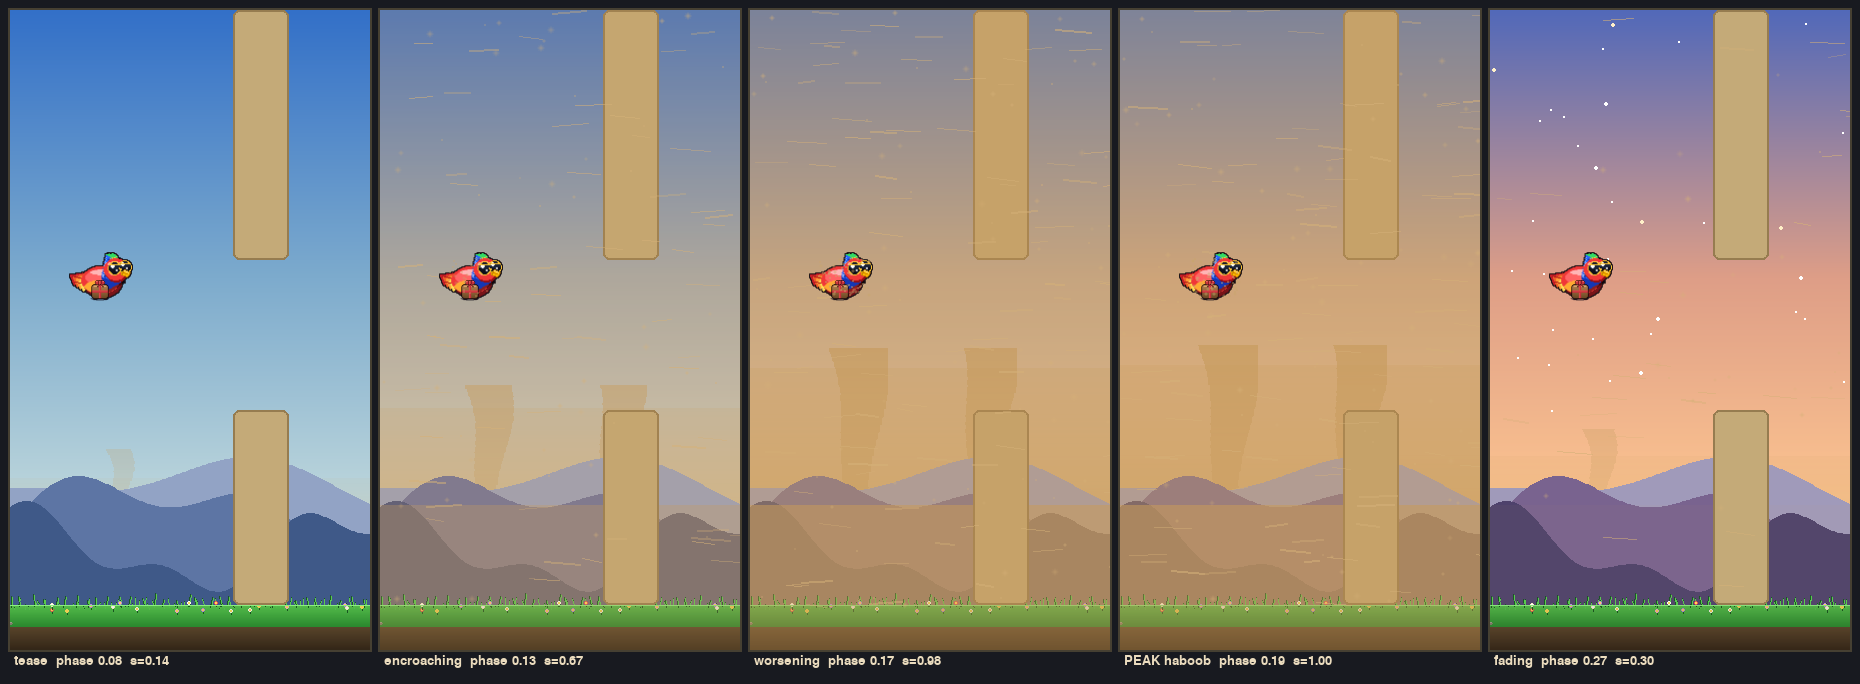
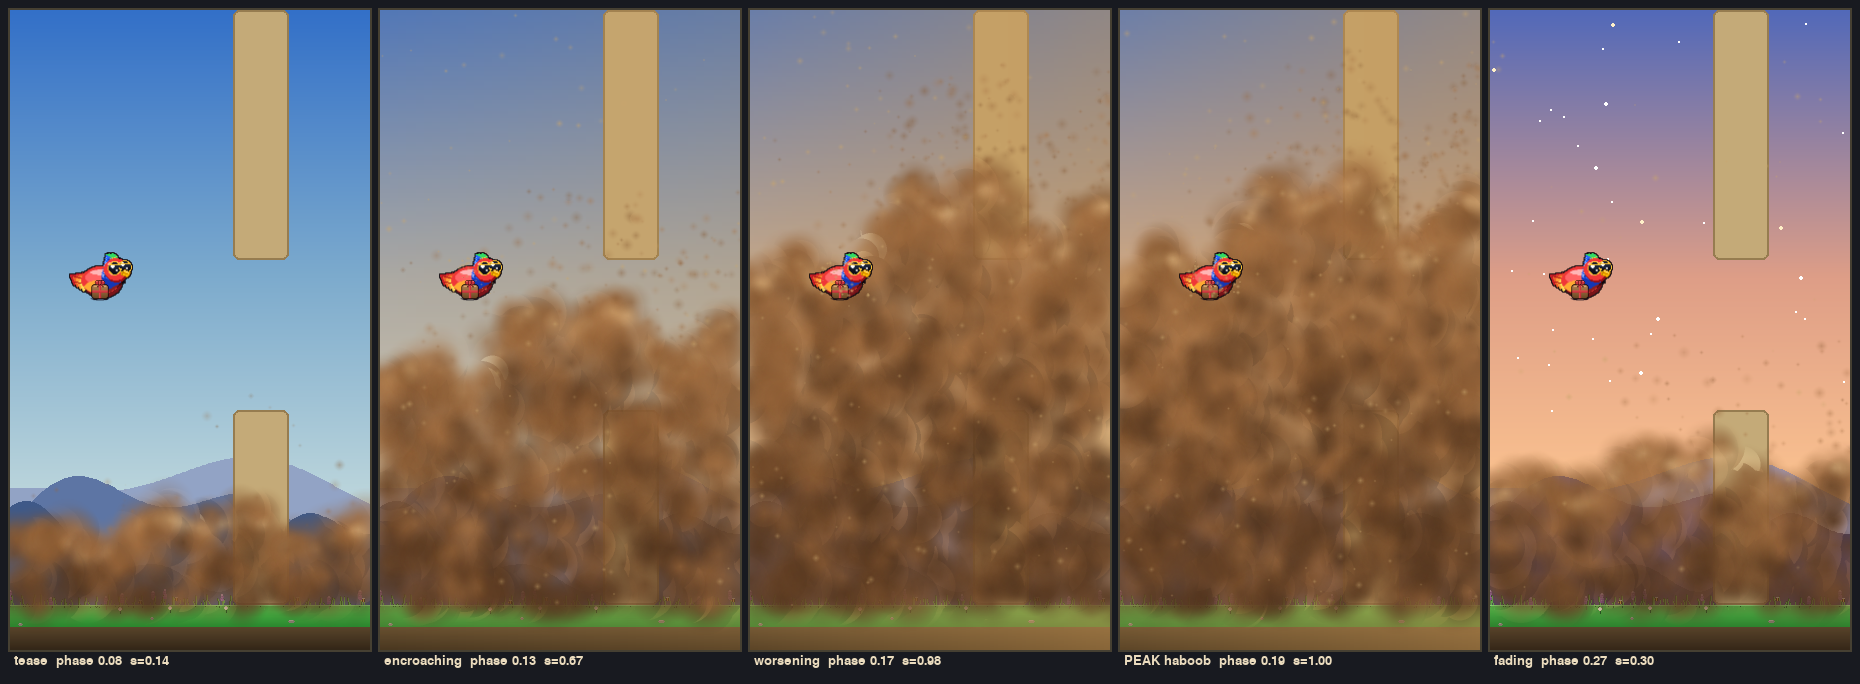
design: sandstorm mockup rebuilt to haboob quality
The first mockup looked crude (flat aliased gradient bands +
draw.line streaks). Rebuilt to REUSE the original haboob's
high-quality rendering from render_wind_themes: warm orange haze
cast + a dust WALL of smooth 2x-supersampled soft-disc puffs
(value-contrast body/deep/sunlit-rim + lofted grit), scaled by
intensity across the stages — distant low band on the horizon at
the tease growing to a tall looming wall at the peak. Dust-devils,
sand motes, and the bird sand coat all now use the same smooth
soft-disc + supersample path. Sample pillar pair kept to judge the
visibility veil. Still tooling-only. Tests: 22/22.

diff --git a/tools/render_sandstorm.py b/tools/render_sandstorm.py
@@ -1,9 +1,10 @@
-"""SANDSTORM stage mockup (design tuning, tooling-only — not wired
-into the game yet). Renders the event's key stages along its
-timeline so we can judge the look: a daytime haboob with a long
-tease (horizon dust WALL + DUST-DEVILS behind the mountains), an
-ochre VISIBILITY veil over the course (pipes shown, Pip stays
-crisp), mountains buried, and the bird coated in spread sand.
+"""SANDSTORM stage mockup (design tuning, tooling-only). REBUILT to
+reuse the high-quality haboob rendering from render_wind_themes
+(warm haze cast + a dust WALL of smooth supersampled soft-disc
+puffs with value contrast + a sunlit rim), scaled by intensity to
+show the stages: distant horizon storm (tease) -> encroaching ->
+peak haboob -> fade. Plus dust-devils, a sample pillar pair (to
+judge the visibility veil), and the bird's spread sand coat.
 
 Output: docs/screenshots/wind_themes/sandstorm/stages_sheet.png
 
@@ -21,9 +22,11 @@ os.environ.setdefault("SDL_AUDIODRIVER", "dummy")
 import pygame
 
 from game.config import W, H, GROUND_Y, BIRD_X
-from game.entities import Bird, _snow_disc           # reuse soft disc
+from game.entities import Bird
 from game import biome as _biome
 from game.draw import get_sky_surface_biome, draw_mountains, draw_ground
+# Reuse the haboob's smooth supersample helpers
+from tools.render_wind_themes import soft_disc, new_ss, blit_ss, SS
 
 pygame.init()
 pygame.display.set_mode((W, H))
@@ -32,12 +35,12 @@ OUT_DIR = os.path.join(os.path.dirname(os.path.dirname(__file__)),
                        "docs", "screenshots", "wind_themes", "sandstorm")
 os.makedirs(OUT_DIR, exist_ok=True)
 
-# Ochre/sepia sand palette
-WALL = (196, 156, 96)
-VEIL = (200, 150, 84)
-MOTE = (212, 176, 120)
+# Haboob palette (same families as theme_haboob)
+HI   = ((250, 210, 150), (255, 225, 170))          # sunlit rim
+BODY = ((150, 100, 58), (130, 86, 48), (168, 116, 70))
+DEEP = ((96, 62, 36), (80, 52, 30))
+HAZE = (198, 148, 82)
 SAND = (200, 165, 108)
-HORIZON = GROUND_Y - 70           # approx mountain-top line
 
 
 def _smooth(t):
@@ -57,53 +60,105 @@ def sand_intensity(phase):
     return _smooth(1.0 - (phase - 0.20) / (0.31 - 0.20))
 
 
-# ── pieces ───────────────────────────────────────────────────────────────────
+# ── pieces (smooth, supersampled) ────────────────────────────────────────────
 
-def draw_far(surf, s, rng):
-    """Horizon dust wall + dust-devils (behind the mountains).
-    Present even in the tease (low s)."""
+def dust_wall(surf, s, rng):
+    """The haboob dust wall — smooth soft-disc puffs rising from the
+    ground. Height + density scale with s: a low distant band on
+    the horizon at the tease, a tall looming wall at the peak."""
     if s <= 0.02:
         return
-    # dust wall: ochre gradient band sitting on the horizon, taller
-    # + more opaque as s grows
-    band_h = int(40 + s * 130)
-    top = HORIZON - band_h
-    wall = pygame.Surface((W, band_h), pygame.SRCALPHA)
-    for yy in range(band_h):
-        t = yy / band_h                       # 0 top -> 1 bottom
-        a = int((30 + s * 150) * (0.3 + 0.7 * t))
-        pygame.draw.line(wall, (*WALL, a), (0, yy), (W, yy))
-    surf.blit(wall, (0, top))
-    # 2 dust-devils: tapered spinning columns rising off the horizon
-    for k, dx in enumerate((0.30, 0.66)):
-        cx = W * dx
-        h = int(70 + s * 120)
-        col = pygame.Surface((60, h), pygame.SRCALPHA)
-        for yy in range(h):
-            t = yy / h
-            wob = math.sin(t * 6.0 + k) * 8 * (1 - t)   # wavy taper
-            wid = int((4 + (1 - t) * 16) * (0.5 + s))
-            a = int((40 + s * 120) * (0.4 + 0.6 * (1 - t)))
-            pygame.draw.line(col, (*WALL, a),
-                             (30 + wob - wid, yy), (30 + wob + wid, yy))
-        surf.blit(col, (int(cx - 30), HORIZON - h))
+    ss = new_ss()
+    gy0 = GROUND_Y * SS
+    top_frac = 0.95 - 0.55 * s            # 0.95 (low) -> 0.40 (tall)
+
+    def wall_top(xf):
+        base = gy0 * (top_frac - xf * 0.10 * s)         # taller right at peak
+        lump = (math.sin(xf * 9) * 0.045
+                + math.sin(xf * 23 + 1.7) * 0.028) * gy0 * (0.4 + s)
+        return base + lump
+
+    cols = int(55 + s * 55)
+    for ci in range(cols):
+        xf = ci / (cols - 1)
+        gx = xf * W * SS
+        top = wall_top(xf)
+        for _ in range(int(4 + s * 9)):
+            yy = rng.uniform(top - 8 * SS, gy0)
+            depth = (yy - top) / max(1.0, gy0 - top)
+            r = int(rng.uniform(18, 34) * SS)
+            col = rng.choice(DEEP) if rng.random() < depth * 0.85 else rng.choice(BODY)
+            ss.blit(soft_disc(r, col, rng.randint(95, 150)),
+                    (gx - r + rng.uniform(-14, 14) * SS, yy - r))
+        if rng.random() < 0.5:
+            rr = int(rng.uniform(10, 20) * SS)
+            ss.blit(soft_disc(rr, rng.choice(HI), rng.randint(60, 110)),
+                    (gx - rr, top - rr * 0.5))
+
+    # lofted grit above the wall (scales with s)
+    for _ in range(int(s * 170)):
+        xf = rng.random() ** 0.5
+        gx = xf * W * SS
+        gy = rng.uniform(wall_top(xf) - 130 * SS, wall_top(xf))
+        if gy < 0:
+            continue
+        r = rng.randint(3, 8) * SS
+        ss.blit(soft_disc(r, rng.choice(BODY), rng.randint(50, 110)),
+                (gx - r, gy - r))
+    blit_ss(surf, ss)
 
 
-def mountain_bury(surf, s):
-    """Ochre wash over the mountain band so the peaks get buried as
-    the storm advances (mid+ intensity)."""
-    if s < 0.25:
+def dust_devils(surf, s, rng):
+    """A couple of slim spinning sand columns on the horizon
+    (tease accents), built from smooth soft discs."""
+    if s <= 0.03:
         return
-    t = (s - 0.25) / 0.75
-    a = int(150 * t)
-    wash = pygame.Surface((W, GROUND_Y - (HORIZON - 30)), pygame.SRCALPHA)
-    wash.fill((*WALL, a))
-    surf.blit(wash, (0, HORIZON - 30))
+    ss = new_ss()
+    gy0 = (GROUND_Y - 18) * SS
+    for k, dx in enumerate((0.32, 0.70)):
+        cx = W * SS * dx
+        h = (90 + s * 130) * SS
+        steps = int(h / (5 * SS))
+        for i in range(steps):
+            t = i / steps                     # 0 base -> 1 top
+            wob = math.sin(t * 7.0 + k * 2.0) * 10 * SS * (1 - t)
+            r = int((3 + (1 - t) * 9) * SS * (0.6 + s * 0.6))
+            a = int((45 + s * 110) * (0.35 + 0.65 * (1 - t)))
+            col = rng.choice(BODY)
+            ss.blit(soft_disc(r, col, a),
+                    (cx + wob - r, gy0 - t * h - r))
+    blit_ss(surf, ss)
+
+
+def warm_haze(surf, s):
+    """Orange/sepia cast + the VISIBILITY veil. Gated to the
+    encroaching stage (s>0.3) so the tease keeps a clear playfield.
+    Right side heavier (leading edge)."""
+    if s < 0.30:
+        return
+    t = (s - 0.30) / 0.70
+    haze = pygame.Surface((W, H), pygame.SRCALPHA)
+    for xx in range(0, W, 2):
+        fx = xx / W
+        a = int(t * (70 + fx * 80))           # up to ~150 right edge at peak
+        pygame.draw.rect(haze, (*HAZE, a), (xx, 0, 2, H))
+    surf.blit(haze, (0, 0))
+
+
+def sand_particles(surf, s, rng):
+    """Foreground drifting sand motes (smooth)."""
+    if s < 0.22:
+        return
+    ss = new_ss()
+    for _ in range(int(s * 120)):
+        x = rng.uniform(0, W) * SS
+        y = rng.uniform(0, GROUND_Y) * SS
+        r = rng.randint(2, 5) * SS
+        ss.blit(soft_disc(r, SAND, rng.randint(70, 150)), (x - r, y - r))
+    blit_ss(surf, ss)
 
 
 def draw_pillars(surf):
-    """A representative sandstone pillar pair (the 'course'), so the
-    veil's effect on visibility is judgeable."""
     col = (196, 170, 120)
     edge = (150, 124, 80)
     gap_y, gap_h, pw, px = 250, 150, 56, int(W * 0.62)
@@ -113,59 +168,21 @@ def draw_pillars(surf):
         pygame.draw.rect(surf, edge, rect, width=2, border_radius=6)
 
 
-def playfield_veil(surf, s):
-    """Full-screen ochre VISIBILITY veil — the gameplay effect.
-    Capped so the course stays discernible (fair)."""
-    if s < 0.30:
-        return
-    t = (s - 0.30) / 0.70
-    a = int(105 * t)                          # fair cap ~105 at peak
-    veil = pygame.Surface((W, H), pygame.SRCALPHA)
-    veil.fill((*VEIL, a))
-    surf.blit(veil, (0, 0))
-
-
-def draw_particles(surf, s, rng):
-    """Foreground driven sand: fast streaks + drifting motes."""
-    if s < 0.20:
-        return
-    layer = pygame.Surface((W, H), pygame.SRCALPHA)
-    n_streak = int(s * 90)
-    for _ in range(n_streak):
-        x = rng.uniform(0, W)
-        y = rng.uniform(0, GROUND_Y)
-        ln = rng.uniform(14, 40)
-        a = rng.randint(70, 150)
-        pygame.draw.line(layer, (*MOTE, a), (x, y), (x + ln, y + rng.uniform(-3, 4)),
-                         rng.choice((1, 1, 2)))
-    surf.blit(layer, (0, 0))
-    n_mote = int(s * 70)
-    for _ in range(n_mote):
-        x = rng.uniform(0, W)
-        y = rng.uniform(0, GROUND_Y)
-        r = rng.randint(2, 5)
-        surf.blit(_snow_disc(r, MOTE, rng.randint(90, 170)), (x - r, y - r))
-
-
 def draw_bird_sand(surf, s, rng):
-    """Spread tan sand coat over Pip's whole body (vs snow's top
-    drift). Bird centre (BIRD_X, H*0.42)."""
+    """Spread tan sand coat over Pip's whole body (smooth discs)."""
     if s < 0.35:
         return
     t = (s - 0.35) / 0.65
-    cx, cy = BIRD_X, int(H * 0.42)
-    n = int(8 + t * 60)
-    a = int(70 + t * 120)
-    for i in range(n):
-        # spread across the body bbox (rel ~ x[-22,30] y[-20,18]),
-        # lighter over the face (right-upper)
-        rx = rng.uniform(-22, 30)
-        ry = rng.uniform(-20, 18)
-        if rx > 12 and -16 < ry < 2 and rng.random() < 0.7:
-            continue                          # keep eyes mostly clear
-        r = rng.randint(1, 3)
-        surf.blit(_snow_disc(r, SAND, a),
-                  (cx + rx - r, cy + ry - r))
+    cx, cy = BIRD_X * SS, int(H * 0.42) * SS
+    ss = new_ss()
+    for _ in range(int(10 + t * 55)):
+        rx = rng.uniform(-22, 30) * SS
+        ry = rng.uniform(-20, 18) * SS
+        if rx > 12 * SS and -16 * SS < ry < 2 * SS and rng.random() < 0.7:
+            continue                          # keep the eyes mostly clear
+        r = rng.randint(1, 3) * SS
+        ss.blit(soft_disc(r, SAND, int(80 + t * 120)), (cx + rx - r, cy + ry - r))
+    blit_ss(surf, ss)
 
 
 def scene(phase, rng):
@@ -174,31 +191,26 @@ def scene(phase, rng):
     pal = _biome.palette_for_phase(phase)
     bucket = int((phase % 1.0) * _biome.PHASE_BUCKETS) % _biome.PHASE_BUCKETS
     surf.blit(get_sky_surface_biome(W, H, GROUND_Y, pal, bucket), (0, 0))
-    draw_far(surf, s, rng)                    # behind mountains
     draw_mountains(surf, 0, GROUND_Y, W, pal["mtn_far"], pal["mtn_near"])
-    mountain_bury(surf, s)
+    dust_devils(surf, s, rng)                 # on the horizon
     draw_ground(surf, GROUND_Y, W, H, 0,
                 pal["ground_top"], pal["ground_mid"], (60, 40, 25))
-    draw_pillars(surf)
-    playfield_veil(surf, s)                   # visibility veil over the course
-    draw_particles(surf, s, rng)
+    draw_pillars(surf)                        # the course
+    warm_haze(surf, s)                        # cast + visibility veil (over course)
+    dust_wall(surf, s, rng)                   # looming wall (buries lower scene)
+    sand_particles(surf, s, rng)
     b = Bird()
     b.x = BIRD_X
     b.y = int(H * 0.42)
     b.vy = 0
-    b.draw(surf)
+    b.draw(surf)                              # Pip crisp on top
     draw_bird_sand(surf, s, rng)
     return surf, s
 
 
 def main():
-    frames = [
-        (0.08, "tease"),
-        (0.13, "encroaching"),
-        (0.17, "worsening"),
-        (0.19, "PEAK haboob"),
-        (0.27, "fading"),
-    ]
+    frames = [(0.08, "tease"), (0.13, "encroaching"), (0.17, "worsening"),
+              (0.19, "PEAK haboob"), (0.27, "fading")]
     panels = []
     for ph, lbl in frames:
         rng = random.Random(int(ph * 1000))
